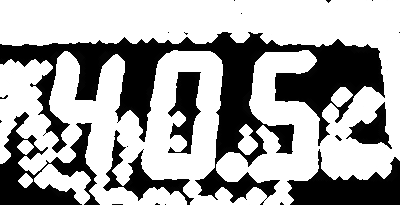
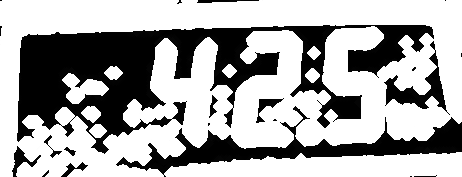
PROCESSAMENTO

diff --git a/backend/dashboard/text_reconize/TextExtract.py b/backend/dashboard/text_reconize/TextExtract.py
@@ -2,6 +2,8 @@ import cv2
 import easyocr
 import re
 
+import numpy as np
+
 class ResolveDigists:
 
     SEVEN_TEXT = '7'
@@ -109,7 +111,53 @@ class ResolveDigists:
             corrected_result.append(text)
 
         return corrected_result
-    
+
+
+class ImageEnhancer:
+    def __init__(self):
+        # Inicializa quaisquer parâmetros globais, se necessário
+        self.kernel_sharpen = np.array([[0, -1, 0], [-1, 5, -1], [0, -1, 0]])
+        self.kernel_dilate = np.ones((2, 2), np.uint8)
+
+    def enhance_image(self, image_path):
+        print(f"Processando imagem em {image_path}...")
+        """
+        Processa a imagem para melhorar a legibilidade para OCR.
+        
+        Args:
+            image_path (str): Caminho para a imagem de entrada.
+            
+        Returns:
+            numpy.ndarray: Imagem processada, ou None se houver erro.
+        """
+        # Carrega a imagem
+        image = cv2.imread(image_path, cv2.IMREAD_GRAYSCALE)
+
+        if image is None:
+            print(f"Erro: Não foi possível carregar a imagem em {image_path}. Verifique o caminho ou a integridade do arquivo.")
+            return None
+
+        # Passo 1: Aumentar o contraste usando equalização de histograma
+        equalized = cv2.equalizeHist(image)
+
+        # Passo 2: Aumentar a nitidez da imagem
+        sharpened = cv2.filter2D(equalized, -1, self.kernel_sharpen)
+
+        # Passo 3: Reduzir ruído com um leve desfoque
+        denoised = cv2.GaussianBlur(sharpened, (7, 7), 0)
+
+        # Passo 4: Aplicar limiarização adaptativa
+        thresh = cv2.adaptiveThreshold(
+            denoised, 255, cv2.ADAPTIVE_THRESH_MEAN_C, cv2.THRESH_BINARY_INV, 19, 5
+        )
+
+        # Passo 5: Aplicar dilatação para engrossar os dígitos
+        dilated = cv2.dilate(thresh, self.kernel_dilate, iterations=1)
+
+        cv2.imwrite("ponto_1_tratada-TESTEFAGNER.png", dilated)
+
+        return dilated
+
 class ExtractTextInImage:
     def __init__(self, image_path=None,point=0):
         self.image_path = image_path  # Pode ser None se você passar diretamente a imagem
@@ -128,7 +176,7 @@ class ExtractTextInImage:
 
         
         # Pré-processamento
-        gray = cv2.cvtColor(image, cv2.COLOR_BGR2GRAY)
+        '''gray = cv2.cvtColor(image, cv2.COLOR_BGR2GRAY)
         gray = cv2.GaussianBlur(gray, (5, 5), 0)
         thresh = cv2.adaptiveThreshold(gray, 255, cv2.ADAPTIVE_THRESH_MEAN_C, cv2.THRESH_BINARY_INV, 19, 5)
         
@@ -139,7 +187,11 @@ class ExtractTextInImage:
              thresh = cv2.erode(thresh,nucleo,iterations=10)
              
         else:
-            thresh = cv2.dilate(thresh, nucleo, iterations = 6)
+            thresh = cv2.dilate(thresh, nucleo, iterations = 6)'''
+        
+        tratramento = ImageEnhancer()
+        thresh = tratramento.enhance_image(self.image_path)
+        
         cv2.imwrite(f"Processada-{self.point}.png", thresh)
         # OCR com EasyOCR
         reader = easyocr.Reader(["pt"], gpu=True)
@@ -147,12 +199,12 @@ class ExtractTextInImage:
         
         # Pós-processamento
         print(f"Resultados do OCR:{resultado}")
-        if '7' in resultado[0] or '1' in resultado[0]:
+        '''if '7' in resultado[0] or '1' in resultado[0]:
             print("Resolvendo confusão entre 1 e 7...")
             resolve = ResolveDigists(image, self.point)
             resultado = resolve.resolve_digits()
 
-            return resultado
+            return resultado'''
         
         
         
@@ -175,3 +227,4 @@ class ExtractTextInImage:
     def resize_image(self, image):
         novo_tamanho = (image.shape[1] * 2, image.shape[0] * 2)  # OpenCV usa (largura, altura)
         return cv2.resize(image, novo_tamanho, interpolation=cv2.INTER_NEAREST)
+    

diff --git a/backend/dashboard/services/TensionService PROD.py b/backend/dashboard/services/TensionService PROD.py
@@ -135,12 +135,12 @@ class TensionService:
         imagemOriginal = imagemOriginal[515:720, 820:1220]
         
         # Salva a imagem recortada (opcional)
-        path = "images_final/ponto_1_tratada.png"
-        cv2.imwrite(path, imagemOriginal)
+        path_p1 = "images_final/ponto_1_tratada.png"
+        cv2.imwrite(path_p1, imagemOriginal)
         
         # Usa ExtractTextInImage para extrair o texto
-        extrator = ExtractTextInImage(path,1)
-        resultado = extrator.extract_text(image=path)     
+        extrator = ExtractTextInImage(imagemOriginal,1)
+        resultado = extrator.extract_text(image=imagemOriginal)     
         textoResposta = extrator.normalize_text(resultado)
         
         print("RESPOSTA p1", textoResposta)
@@ -156,12 +156,12 @@ class TensionService:
 
         
 
-        path = "images_final/ponto_2_tratada.png"
-        cv2.imwrite(path, imagemOriginal)
+        path_p1 = "images_final/ponto_2_tratada.png"
+        cv2.imwrite(path_p1, imagemOriginal)
         
         # Usa ExtractTextInImage para extrair o texto
-        extrator = ExtractTextInImage(path,2)
-        resultado = extrator.extract_text(image=path)
+        extrator = ExtractTextInImage(imagemOriginal,2)
+        resultado = extrator.extract_text(image=imagemOriginal)
         
         textoResposta = extrator.normalize_text(resultado)
         
@@ -175,11 +175,11 @@ class TensionService:
         imagemOriginal = cv2.imread('images_final/ponto_3.png') 
         imagemOriginal = imagemOriginal[510:720,800:1210]
 
-        path = "images_final/ponto_3_tratada.png"
-        cv2.imwrite(path, imagemOriginal)
+        path_p1 = "images_final/ponto_3_tratada.png"
+        cv2.imwrite(path_p1, imagemOriginal)
         # Usa ExtractTextInImage para extrair o texto
-        extrator = ExtractTextInImage(path,3)
-        resultado = extrator.extract_text(image=path)
+        extrator = ExtractTextInImage(imagemOriginal,3)
+        resultado = extrator.extract_text(image=imagemOriginal)
         
         textoResposta = extrator.normalize_text(resultado)
         
@@ -192,12 +192,12 @@ class TensionService:
         imagemOriginal = cv2.imread('images_final/ponto_4.png') 
         imagemOriginal = imagemOriginal[520:720,800:1210]
 
-        path = "images_final/ponto_4_tratada.png"
-        cv2.imwrite(path, imagemOriginal)
+        path_p1 = "images_final/ponto_4_tratada.png"
+        cv2.imwrite(path_p1, imagemOriginal)
         
         # Usa ExtractTextInImage para extrair o texto
-        extrator = ExtractTextInImage(path,4)
-        resultado = extrator.extract_text(image=path)
+        extrator = ExtractTextInImage(imagemOriginal,4)
+        resultado = extrator.extract_text(image=imagemOriginal)
         
         textoResposta = extrator.normalize_text(resultado)
         

diff --git a/backend/TesteImagem/Teste.py b/backend/TesteImagem/Teste.py
@@ -2,7 +2,7 @@ import cv2
 import easyocr
 
 # Carregar a imagem
-imagem = cv2.imread("13.jpg")
+imagem = cv2.imread("12.jpg")
 
 # Converter para escala de cinza
 #gray = cv2.cvtColor(imagem, cv2.COLOR_BGR2GRAY)
